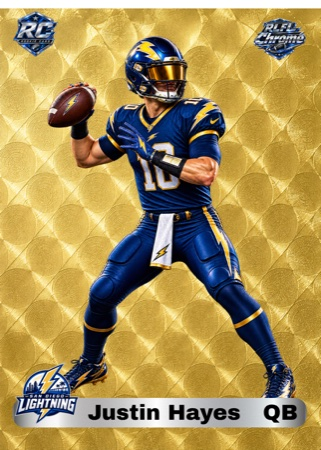
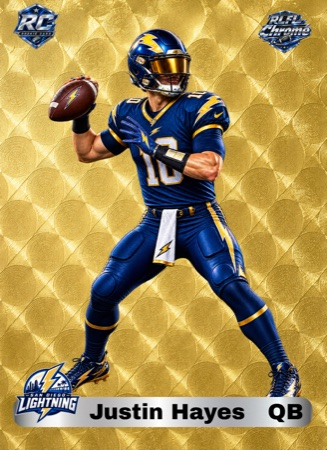
Fix white strip at the top of every plain Superfractor card
The source "1-1.png" export for all 5 players had a consistent 19px
solid-white strip along the top edge (an artifact from whatever
canvas exported them) — confirmed by decoding the raw PNG pixel rows,
not present on the Superfractor Autograph version or any other tier.
Cropped exactly those rows off (no PIL/ImageMagick available, so wrote
a small stdlib-only PNG decode/crop/re-encode script) and re-rendered
each player's superfractor.jpg from the fixed source.

diff --git a/sw.js b/sw.js
@@ -1,6 +1,6 @@
 // RipLab service worker — enables "install" + offline play.
 // Bump CACHE_NAME whenever you change any cached file so clients pick up the update.
-var CACHE_NAME = "riplab-v31";
+var CACHE_NAME = "riplab-v32";
 var CORE_ASSETS = [
   "./",
   "./index.html",
